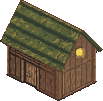
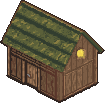
Lake Cleanup: a one-pixel outline round the hut
The hut read softer than the crate beside it. recolor_shed.py rings the
silhouette in the box's edge colour; the shed's size and ground numbers
move by that pixel so the walls stand where they did. A detail pass on the
rubbish was sampled and rejected: it stays as it is.

diff --git a/Lake Cleanup/tools/recolor_shed.py b/Lake Cleanup/tools/recolor_shed.py
@@ -187,6 +187,11 @@ STRIP_SOFT = True
 ## side: the outermost wall pixel of a row whose neighbours above and below start at the
 ## same column. The sloping bottom edges keep the whole border.
 SIDE_TRIM = 1
+## A one-pixel ring in the box's edge colour laid round the whole silhouette, outside it,
+## roof included (2026-09-24, Richard, picked off tools/detail_sample/scene_compare.png:
+## the hut read softer than the crate beside it). The picture grows a pixel on every side,
+## so Iso.SHED_TALL and Iso.SHED_ART_GROUND were moved with it.
+OUTLINE = True
 
 
 def ramp_at(bins, t):
@@ -267,6 +272,21 @@ def main():
                     op[run[y], y] = (0, 0, 0, 0)
                     trimmed += 1
     print("sides: %d pixels cleared" % trimmed)
+    if OUTLINE:
+        ringed = Image.new("RGBA", (w + 2, h + 2))
+        ringed.paste(out, (1, 1))
+        rp = ringed.load()
+        ring = []
+        for y in range(h + 2):
+            for x in range(w + 2):
+                if rp[x, y][3] == 0 and any(
+                        0 <= x + dx < w + 2 and 0 <= y + dy < h + 2 and rp[x + dx, y + dy][3] > 0
+                        for dx, dy in ((1, 0), (-1, 0), (0, 1), (0, -1))):
+                    ring.append((x, y))
+        for x, y in ring:
+            rp[x, y] = (edge[0], edge[1], edge[2], 255)
+        out = ringed
+        print("outline: %d pixels" % len(ring))
     out.save(out_path)
     print("border: %d pixels in %s" % (bordered, edge))
     counts = {}
